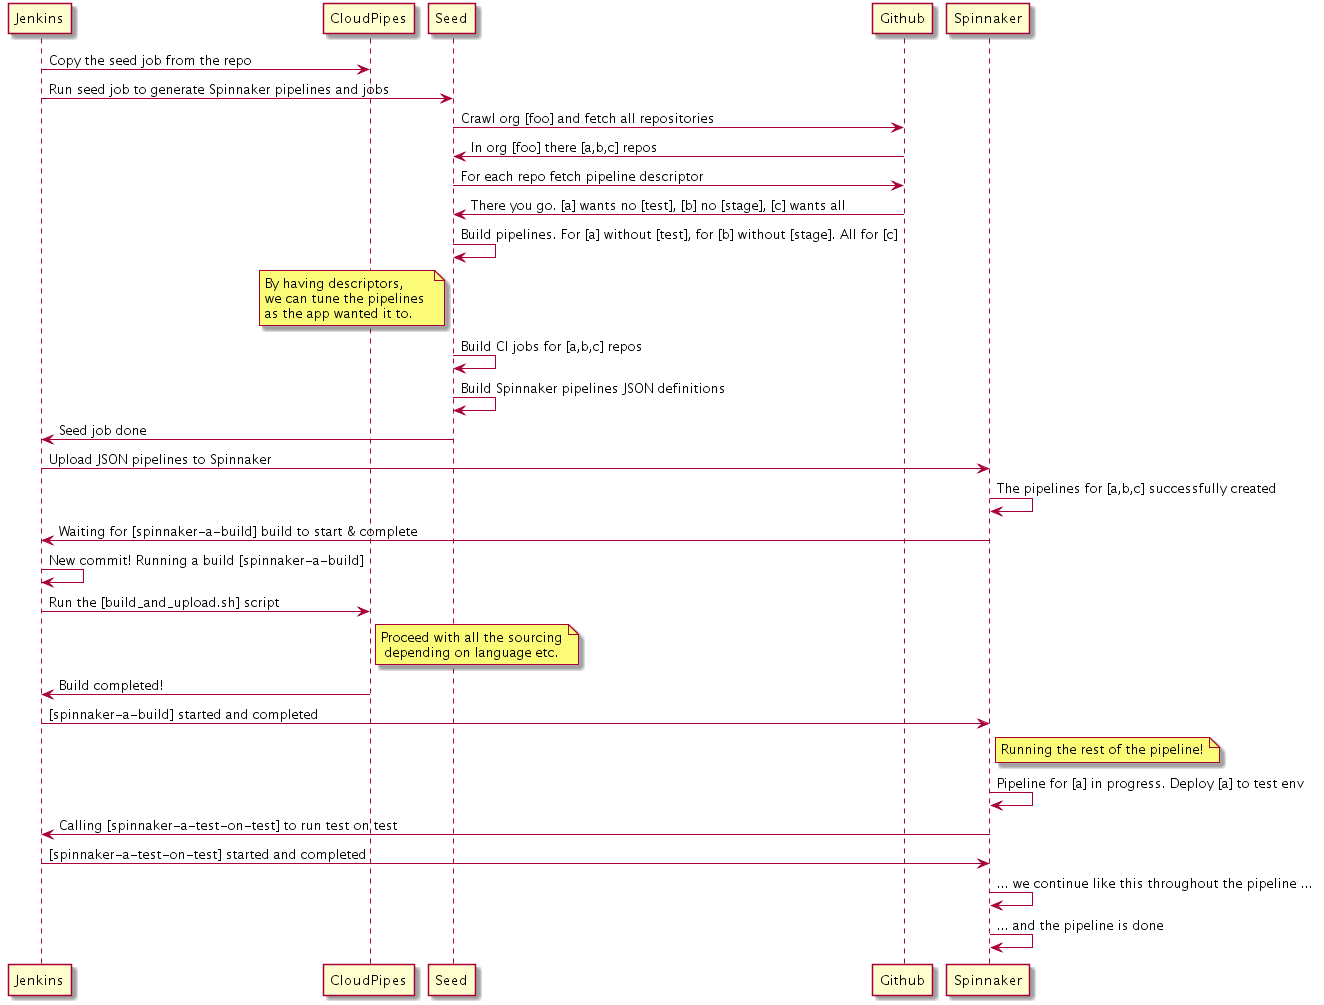
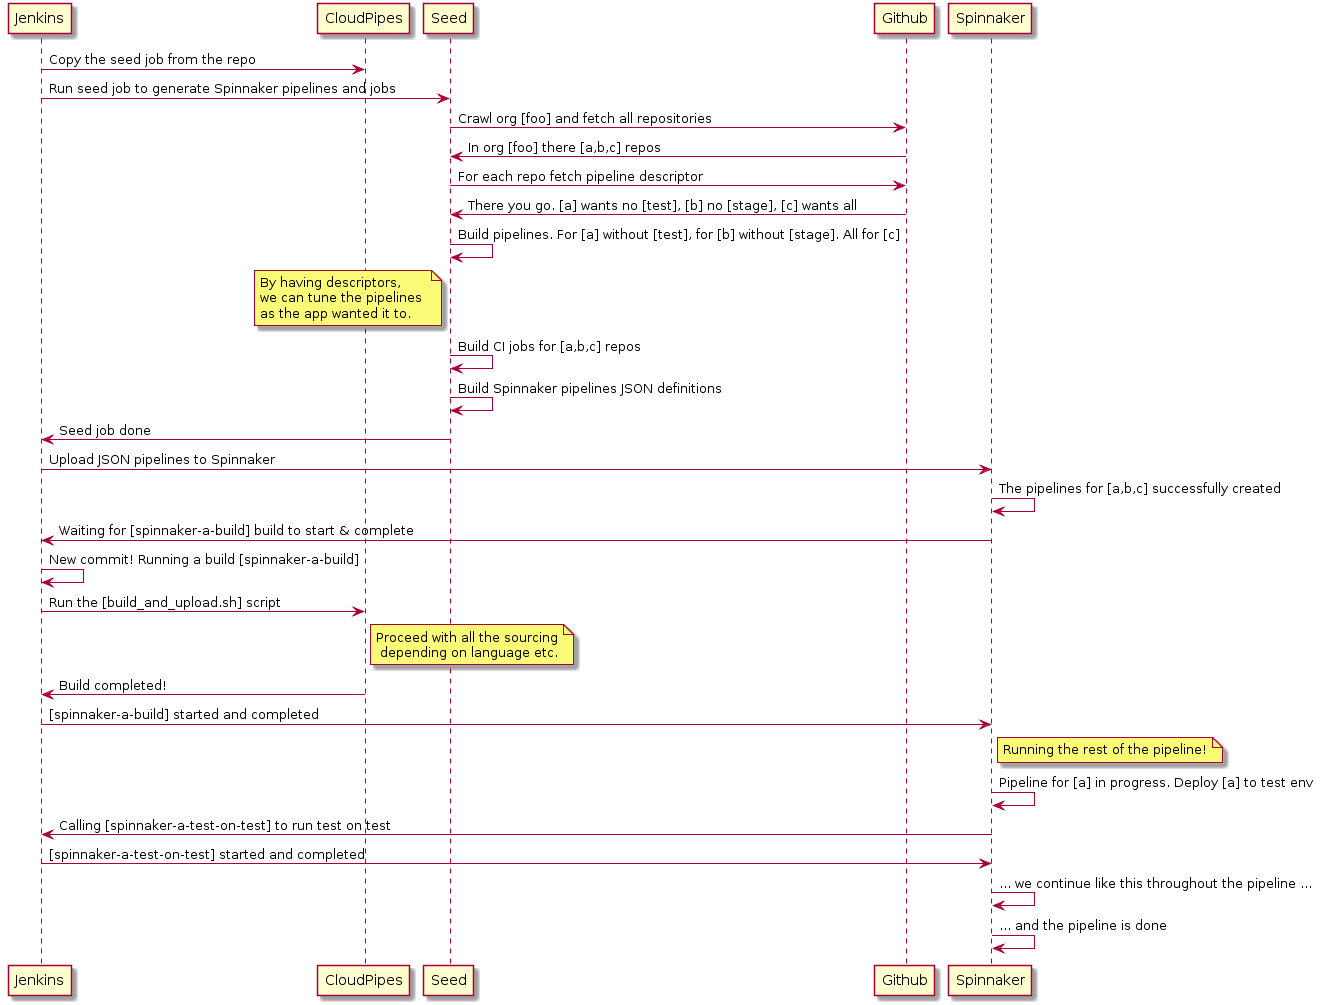
Sync docs

diff --git a/docs/DOCS.html b/docs/DOCS.html
@@ -661,7 +661,7 @@ library, which can:</p>
 </div>
 <div class="imageblock">
 <div class="content">
-<img src="crawler.png" alt="crawler" width="928" height="425">
+<img src="crawler.png" alt="crawler" width="951" height="426">
 </div>
 </div>
 <div class="paragraph">

diff --git a/docs/INTRO.html b/docs/INTRO.html
@@ -550,7 +550,7 @@ library, which can:</p>
 </div>
 <div class="imageblock">
 <div class="content">
-<img src="crawler.png" alt="crawler" width="928" height="425">
+<img src="crawler.png" alt="crawler" width="951" height="426">
 </div>
 </div>
 <div class="paragraph">

diff --git a/docs/index.html b/docs/index.html
@@ -661,7 +661,7 @@ library, which can:</p>
 </div>
 <div class="imageblock">
 <div class="content">
-<img src="crawler.png" alt="crawler" width="928" height="425">
+<img src="crawler.png" alt="crawler" width="951" height="426">
 </div>
 </div>
 <div class="paragraph">
